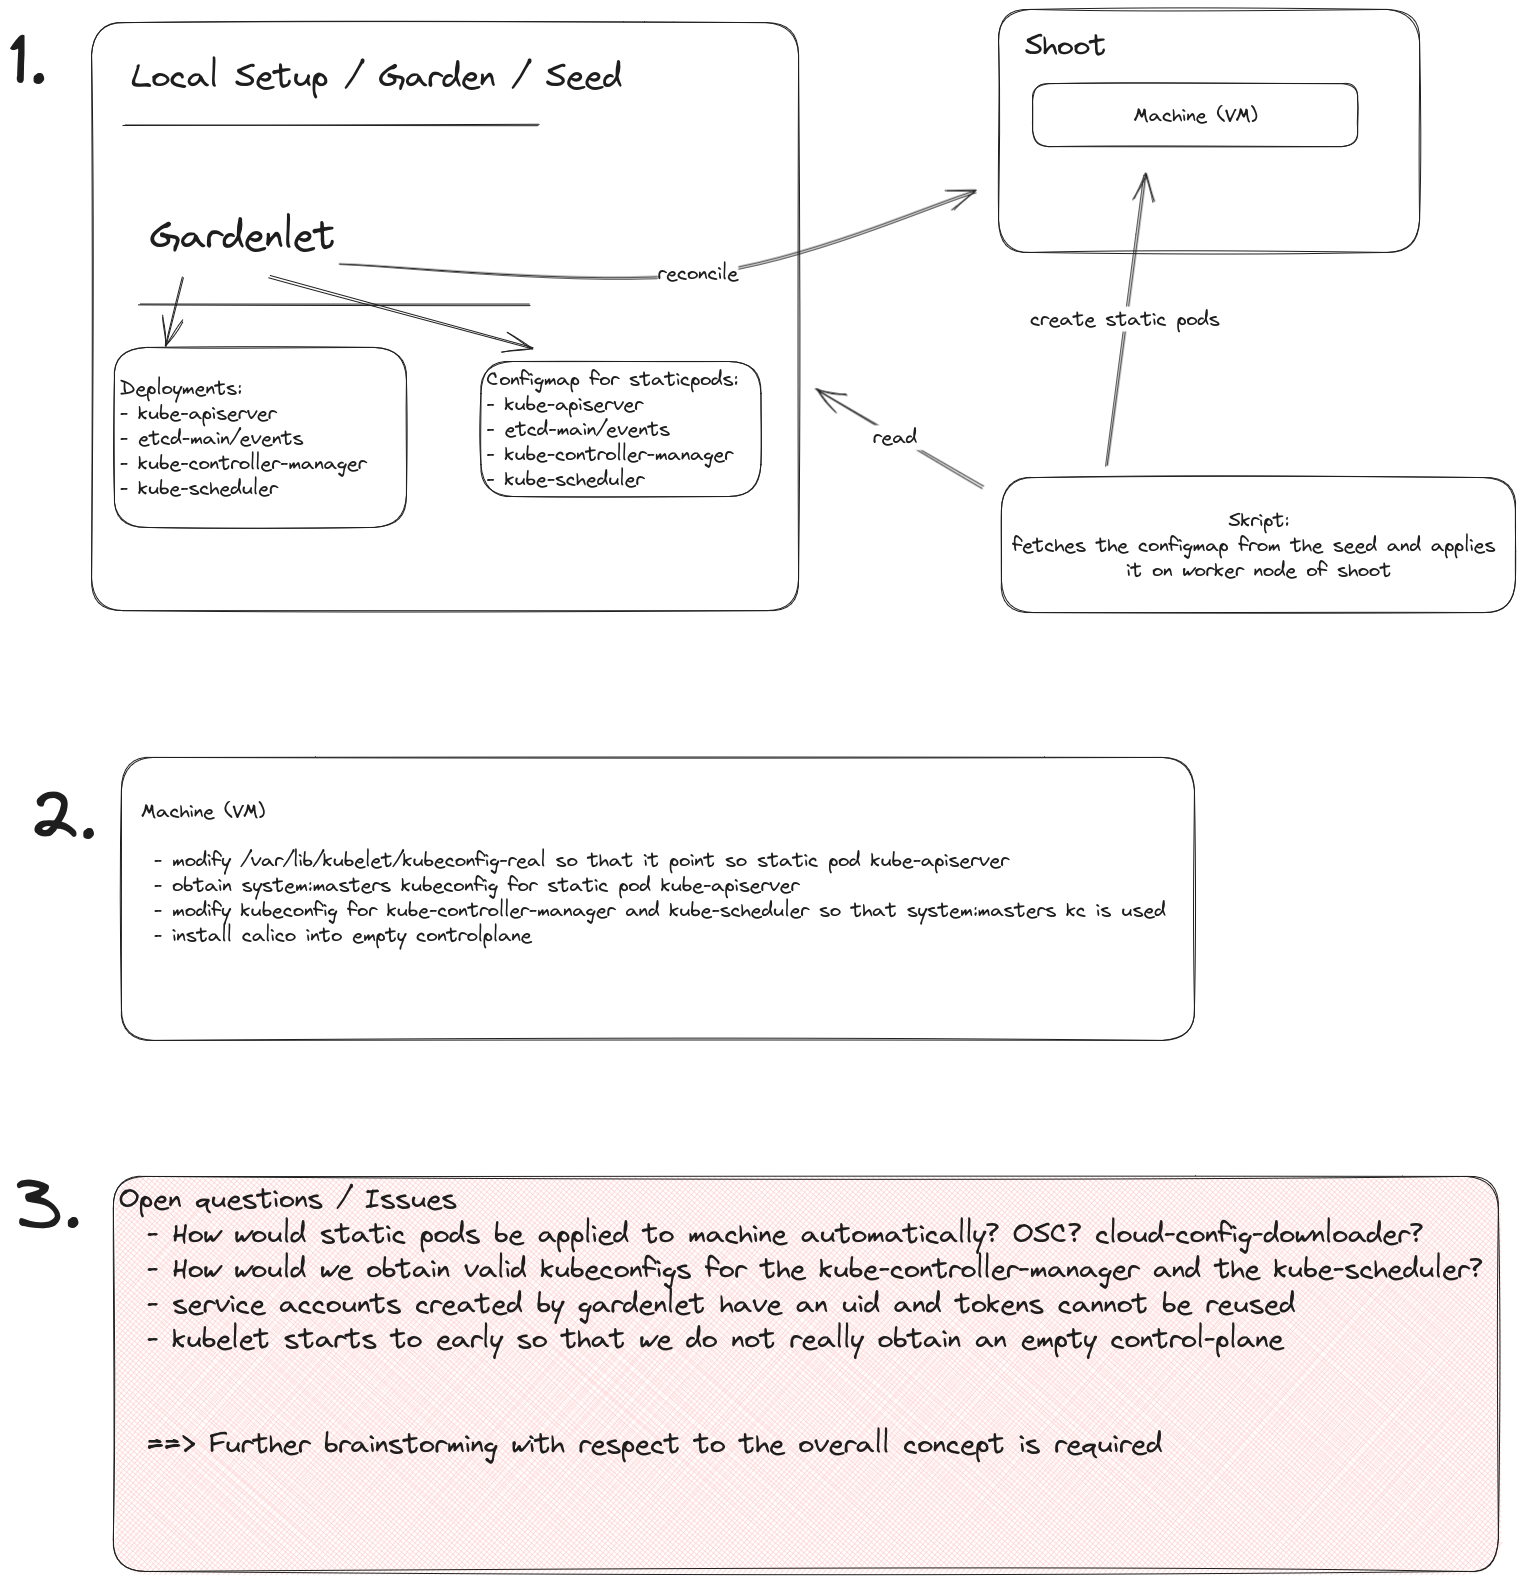
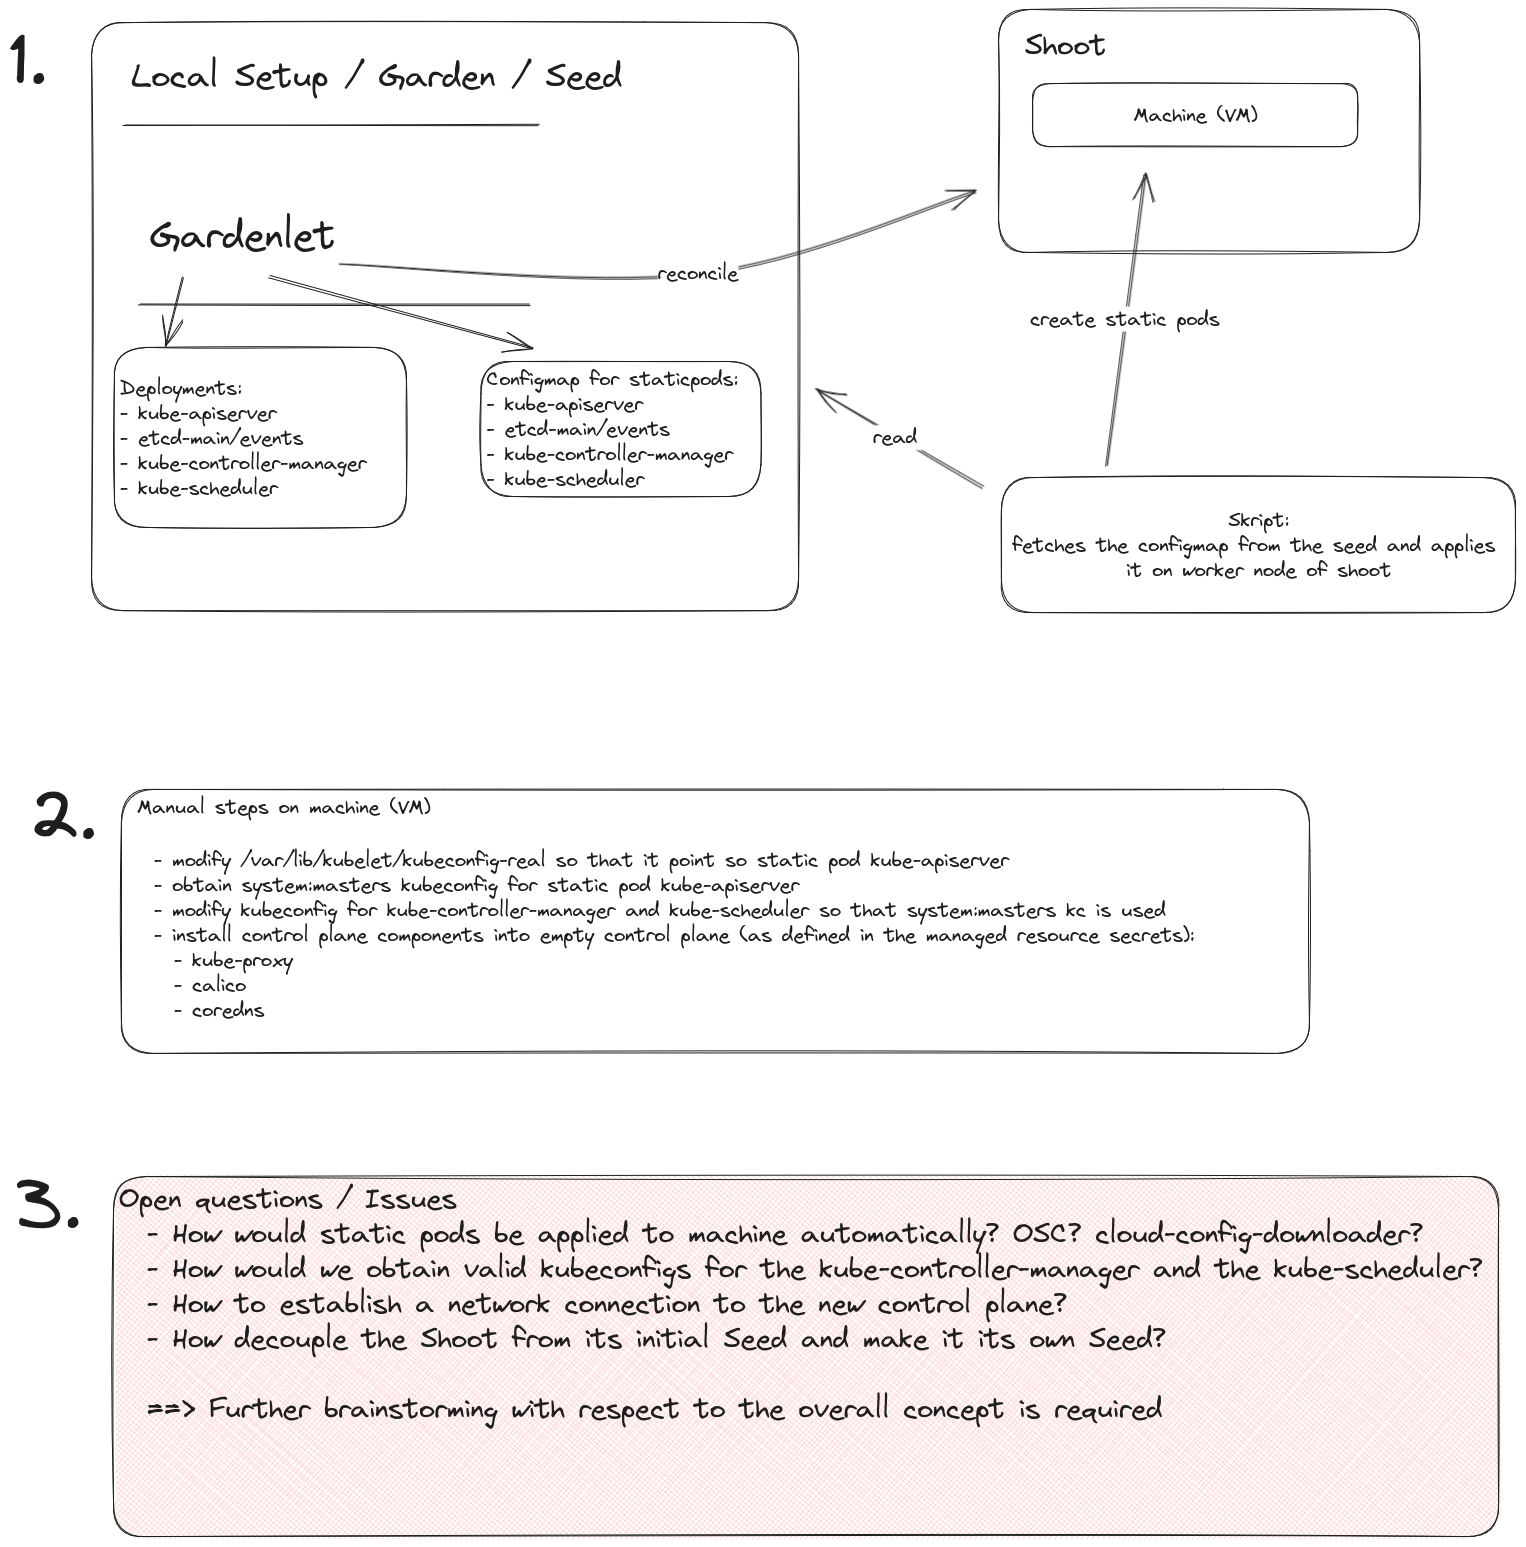
Add summary for masterful shoots (#1)
* WIP: Add summary for masterful shoots

* Remove redundant word

* Update MasterfulShoot.png

* Minor additions to the summary text

---------

diff --git a/2023-05_Leverkusen/masterful-shoot/summary.md b/2023-05_Leverkusen/masterful-shoot/summary.md
@@ -1,0 +1,20 @@
+# An Evaluation of Masterful Shoots
+
+## General concept
+
+For a Gardener installation, the setup of an initial Kubernetes cluster is crucial, as Gardener runs on Kubernetes itself. Thus, it was decided to evaluate how we could potentially setup and maintain "initial clusters in Gardener style", aka. masterful shoots, for the hackathon in May 2023. The general idea was to create a Kubernetes control plane via static `Pod`s on machine in an existing `Shoot` cluster and migrate the control plane from its `Seed` cluster to the static control plane, i.e. the `Shoot` becomes its own `Seed`. For this purpose, the existing code in gardener/gardener was modified, so that not only the `Shoot`'s control plane on the `Seed` was built but also the static `Pod` manifests were written to a script (stored in a `ConfigMap`), which should create the static control plane when executed on the machine. In the final design, this script was expected to be executed during the bootstrap phase of machines with special taints which would allow for the specification of a worker group in a `Shoot` spec which would host the control plane of the `Shoot` itself. However, this design idea is still in conceptual phase and was not implemented during the hackathon. Also, the migration of the control plane components from the `Seed` cluster to the static `Pod`s is not implemented, as we faced several issues during evaluation.
+
+## Control plane migration from `Seed` to static `Pod`s
+
+Once the `kube-apiserver` and `etcd` are started as static `Pod`s, the `kube-controller-manager`and `kube-scheduler` need to be connected to the `kube-apiserver`. Consequently, a valid kubeconfig for the `kube-controller-manager` and `kube-scheduler` is required. However, the kubeconfig which is used on the `Seed` cluster for this purpose cannot simply be reused in the static `Pod` control plane, as it is based on a `ServiceAccount` which does not exist in the empty `etcd` which was deployed via the static `Pod`. Creating the exact same `ServiceAccount` is not straight-forward, since the corresponding `token` contains an uid for the `ServiceAccount` which cannot be set during creation. To circumvent this issue, we tried to backup the `etcd` in the `Seed` cluster and restore it in the static control plane. However, a full backup also brought all deployments etc. to the static control plane which were not functional for various reasons.
+Consequently, we decided to fetch a kubeconfig for the static `kube-apiserver` with a user from the `system:masters` group and used it for the connectivity setup of the `kube-controller-manger` and `kube-scheduler`. Of course, this was the last resort hack in order to keep going in the evaluation phase.
+With the running control plane components, we deployed `kube-proxy`, `calcio` and `coredns` into the empty control plane. The manifests for these deployments were obtained from the `ManagedResource` `Secrets` which were still available in the initial `Seed` cluster.
+At this stage, it is possible to run workload on the `Shoot` cluster via interaction with the static `Pod` control plane.
+
+## Outlook
+
+Even though we put a lot of effort into the investigation of the control plane migration, we were not able to complete the task, as the `Shoot` with static `Pod` control plane will not really behave as a `Shoot` whose control plane is hosted on a `Seed`. The reasons are manifold. Most notably, we were not able to design a concept for making the `Shoot` its own `Seed`. Consequently, we cannot really show a proof of concept, as it is still unclear how the final conceptual design looks like. Therefore, any ideas regarding the general architecture are highly welcome 🙂.
+
+## Resources
+
+See [https://github.com/MartinWeindel/gardener/tree/initial-cluster-poc](The initial-cluster-poc branch on Martin Weindel's Gardener Fork) for the very early stage ideas of this work item.
